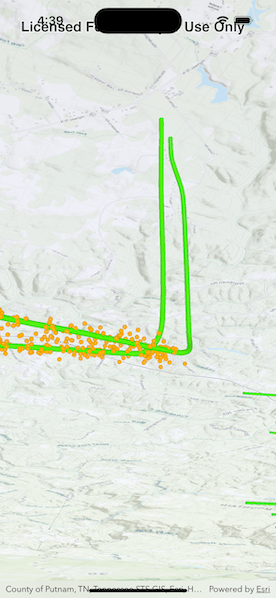
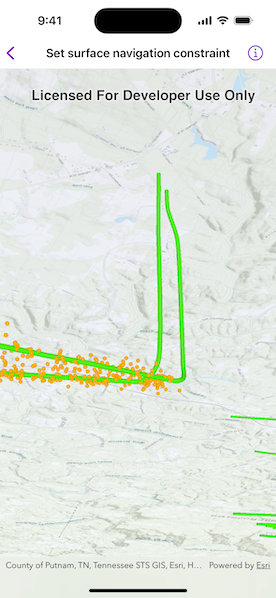
update readme, and screenshot

diff --git a/Shared/Samples/Set surface navigation constraint/SetSurfaceNavigationConstraintView.swift b/Shared/Samples/Set surface navigation constraint/SetSurfaceNavigationConstraintView.swift
@@ -25,8 +25,10 @@ struct SetSurfaceNavigationConstraintView: View {
         )
         // Creates the scene using the portal item.
         let scene = Scene(item: portalItem)
-        // Sets the navigation constraint on the scene's base surface to unconstrained which allowd the camera pass above and below the elevation surface.
+        // Sets the navigation constraint on the scene's base surface to unconstrained which allows the camera pass above and below the elevation surface.
         scene.baseSurface.navigationConstraint = .unconstrained
+        // Sets the opacity so that it is possible to see below the surface.
+        scene.baseSurface.opacity = 0.7
         return scene
     }()
 

diff --git a/Shared/Samples/Set surface navigation constraint/README.md b/Shared/Samples/Set surface navigation constraint/README.md
@@ -14,17 +14,17 @@ The sample loads a scene with underground features. Pan and zoom to explore the 
 
 ## How it works
 
-1. Display an `AGSScene` in an `AGSSceneView` which contains layers with underground features.
+1. Display an `Scene` in an `SceneView` which contains layers with underground features.
 2. To see underground, get the scene's base surface and set its opacity to a value between 0 and 1.
-3. To allow the camera to go underground, set the surface's navigation constraint to `none`.
+3. To allow the camera to go underground, set the surface's navigation constraint to `unconstrained`.
 
 ## Relevant API
 
-* AGSSurface
+* Surface
 
 ## About the data
 
-This data is a point scene layer showing underground wellbore paths (green polylines) and seismic events (orange points).
+This sample shows a [Underground Wellbores and Seismic Events (Point Scene Layer) Webscene](https://www.arcgis.com/home/item.html?id=91a4fafd747a47c7bab7797066cb9272) hosted on ArcGIS Online. The data displays a point scene layer showing underground wellbore paths (green polylines) and seismic events (orange points).
 
 ## Tags
 
